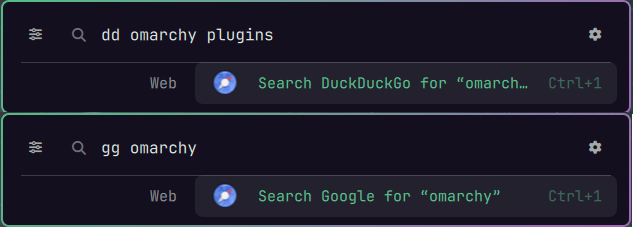
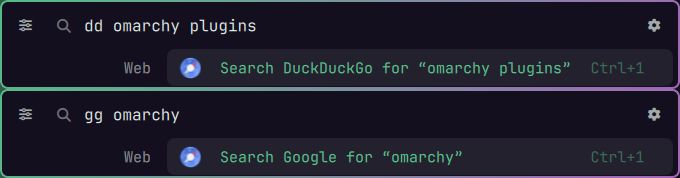
docs: retake screenshots for the new style; describe the ON/OFF badges
Collapsed line, Apps list, Sources page, Settings page and the dd/gg web
search shots are retaken on DP-1 with default settings at the Wide width.
The clipboard, menu and files shots show personal content and are kept.

diff --git a/README.md b/README.md
@@ -194,13 +194,15 @@ Shift+click works like Shift+Enter.
 
 ## Sources and settings
 
-The **Omarunner Sources** page (filter button, `Ctrl+,`) lists every search source with a short hint and a ✓ when
-enabled; Enter toggles one. Applications, Omarchy and Session can be switched
-off the same way.
+The **Omarunner Sources** page (filter button, `Ctrl+,`) lists every search source with a short hint and an
+**ON**/**OFF** badge at the right; Enter or a click toggles one. Applications,
+Omarchy and Session can be switched off the same way.
 
 The **Omarunner Settings** page (gear, `Ctrl+S`) holds: border, category column, corner radius,
 Ctrl+number hints, font, fuzzy matching, hint size, opacity, row height, rows
-before scrolling, text size and width. Each choice offers presets and a
+before scrolling, text size and width. On/off settings show an **ON**/**OFF**
+badge after their name; a choice (open it to see the presets, the current one
+has a dot) offers presets and a
 **Custom…** entry: open the setting and type a value (a number in the range the
 row names, or any font name), then pick the **Use …** row.
 
